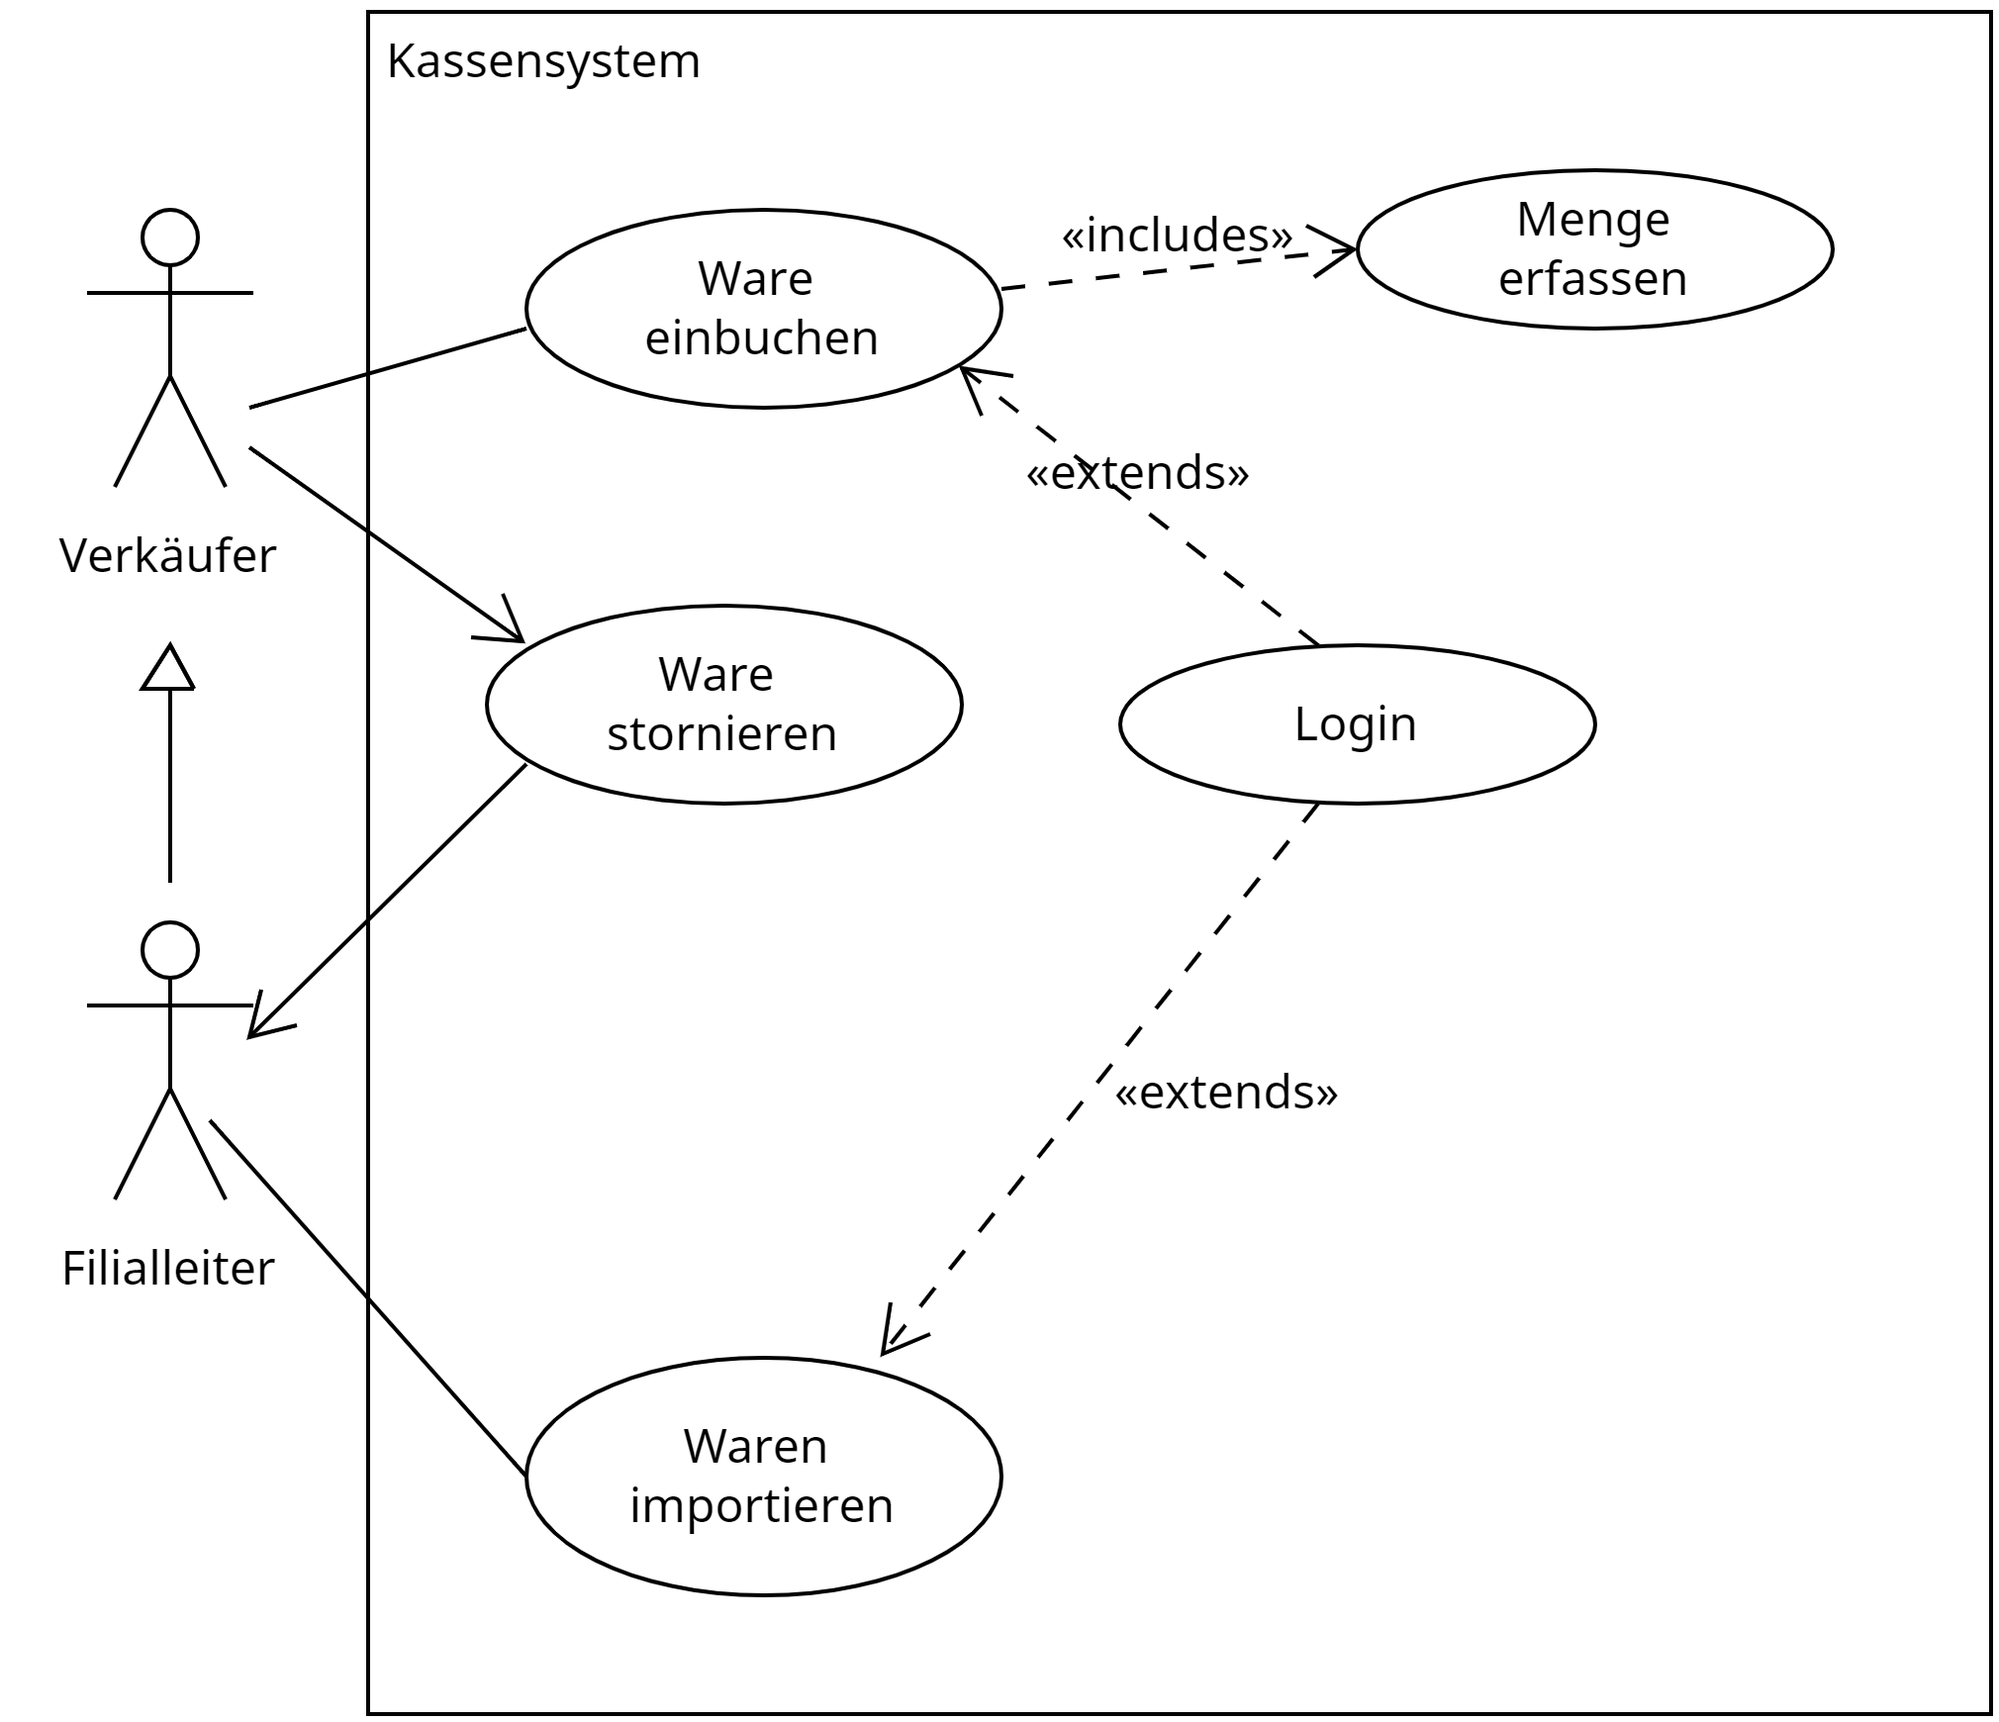
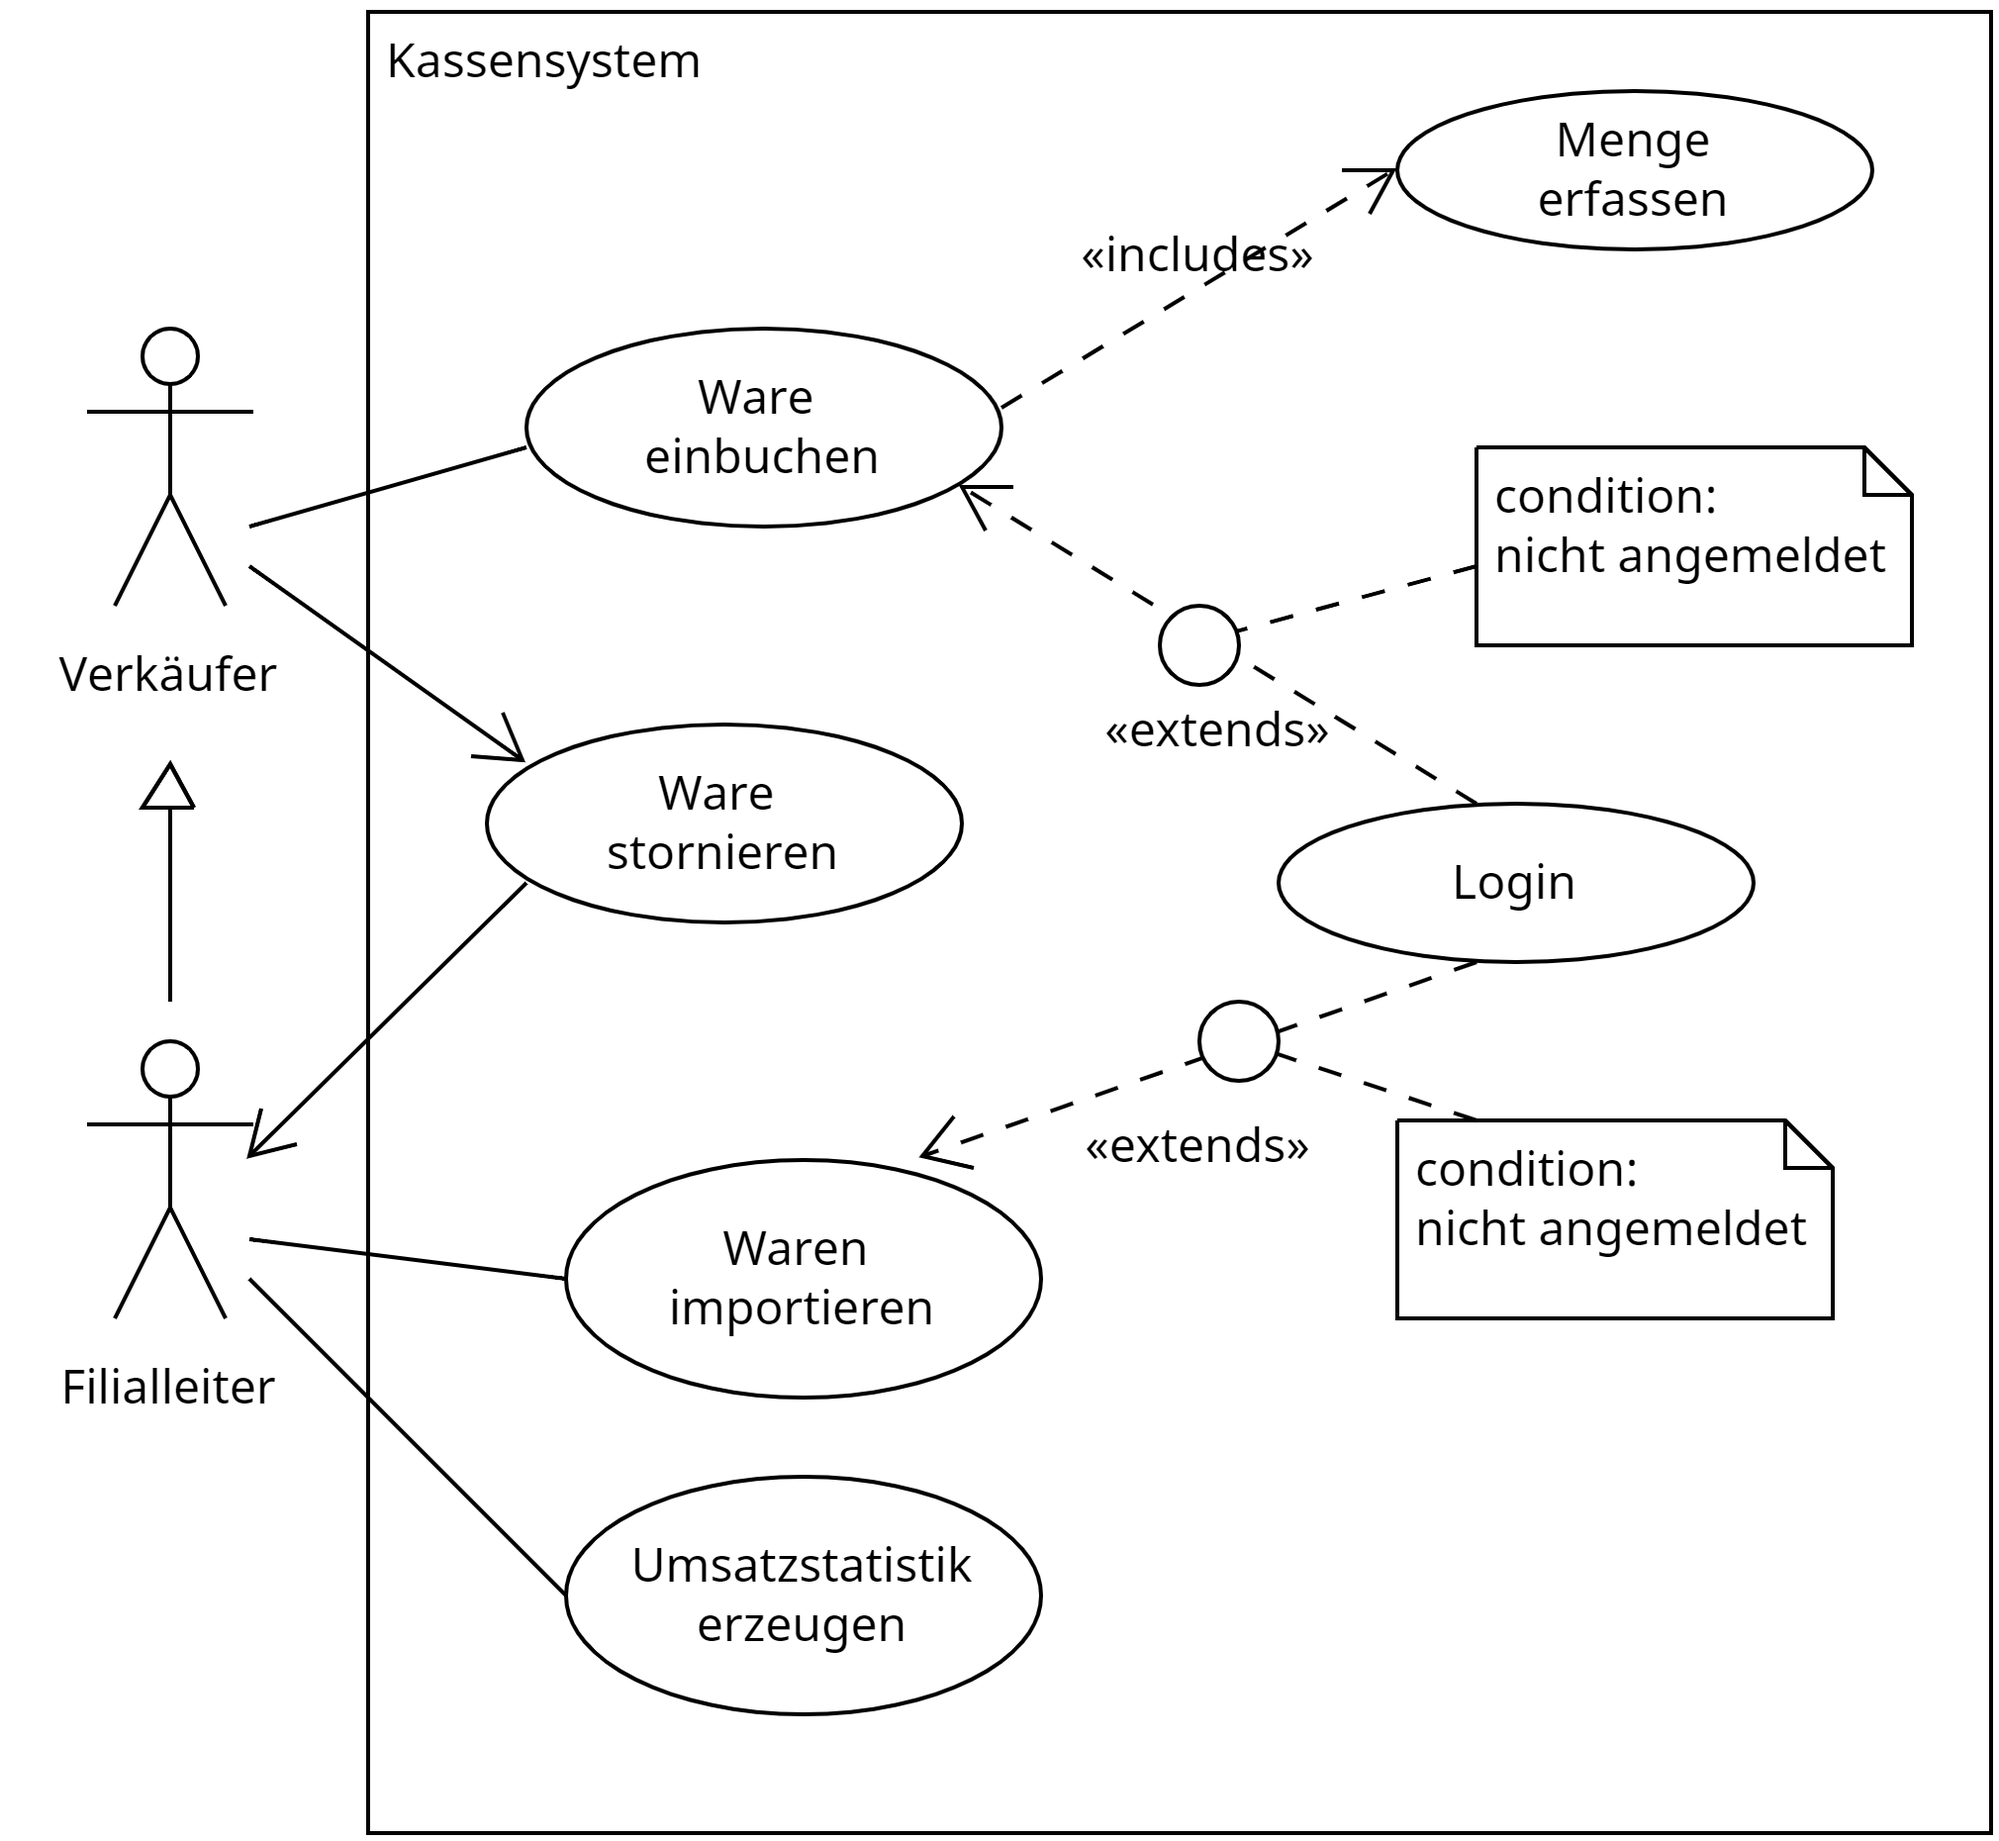
neuen Änderungen

diff --git a/docs/Lernsituation1.md b/docs/Lernsituation1.md
@@ -35,7 +35,7 @@ Die Benutzeroberfläche des Kassensystems sollte intuitiv und verständlich sein
 
 Ein weiterer Aspekt ist die Stornierung von Verkaufsvorgängen. Verkäufe sollten rückgängig gemacht werden können, aber nur vom Filialleiter, um Missbrauch zu verhindern.
 
-Abschließend sollte das Kassensystem die Möglichkeit bieten, Umsatzstatistiken zu generieren, um den Erfolg der Filiale zu überwachen und gegebenenfalls Anpassungen vorzunehmen.
+Abschließend sollte das Kassensystem die Möglichkeit bieten, Umsatzstatistiken durch den Filialleiter zu generieren, um den Erfolg der Filiale zu überwachen und gegebenenfalls Anpassungen vorzunehmen.
 
 <!--lastenheft-->
 
@@ -114,7 +114,7 @@ Was beschreibt das Pflichtenheft im Gegensatz zum Lastenheft genauer?
 - [ ] A) Die allgemeinen Erwartungen des Kunden.
 - [ ] B) Die technische Spezifikation und konkrete Umsetzungsanforderungen.
 - [ ] C) Den wirtschaftlichen Hintergrund des Projekts.
-- [ ] D) Die Nutzeranforderungen aus der Sicht des Endanwenders.
+- [ ] D) Die Auflistung der funktionalen und nichtfunktionalen Anforderungen.
 
 ---
 
@@ -141,7 +141,7 @@ Welche Aussage beschreibt die „include“-Beziehung in einem UML Use Case Diag
 - [ ] A) Sie repräsentiert eine optionale Beziehung, bei der ein Use Case unter bestimmten Bedingungen einen anderen Use Case aufruft.
 - [ ] B) Sie zeigt, dass ein Use Case immer einen anderen Use Case aufruft, um eine bestimmte Funktionalität sicherzustellen.
 - [ ] C) Sie drückt aus, dass ein Akteur in einem spezifischen Use Case verallgemeinert oder spezialisiert werden kann.
-- [ ] D) Sie stellt eine Beziehung dar, bei der zwei Use Cases gleichzeitig aktiviert werden müssen.
+- [ ] D) Die «include» Beziehung zeigt, dass ein Akteur mehrere Rollen im Use Case Diagramm übernehmen kann.
 
 ---
 

diff --git a/docs/Lastenheft.md b/docs/Lastenheft.md
@@ -16,4 +16,4 @@ Die Benutzeroberfläche des Kassensystems sollte intuitiv und verständlich sein
 
 Ein weiterer Aspekt ist die Stornierung von Verkaufsvorgängen. Verkäufe sollten rückgängig gemacht werden können, aber nur vom Filialleiter, um Missbrauch zu verhindern.
 
-Abschließend sollte das Kassensystem die Möglichkeit bieten, Umsatzstatistiken zu generieren, um den Erfolg der Filiale zu überwachen und gegebenenfalls Anpassungen vorzunehmen.
+Abschließend sollte das Kassensystem die Möglichkeit bieten, Umsatzstatistiken durch den Filialleiter zu generieren, um den Erfolg der Filiale zu überwachen und gegebenenfalls Anpassungen vorzunehmen.
